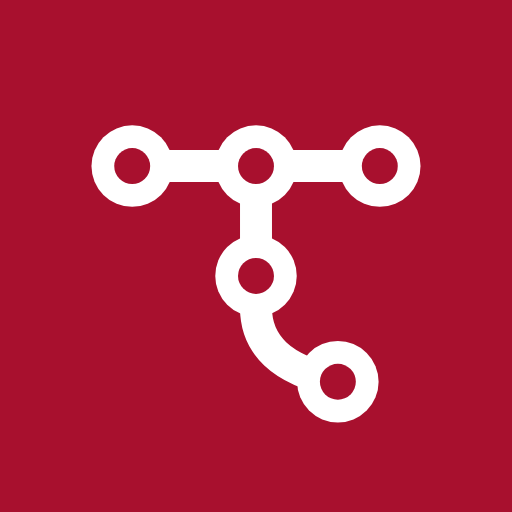
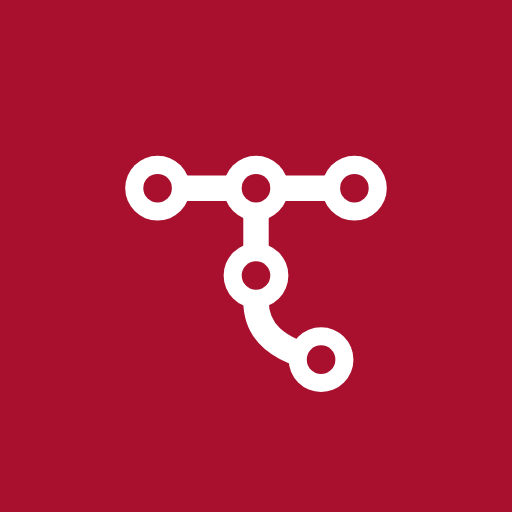
App-Symbol: das T kleiner; von taktland.ch installiert heisst die App «Taktland»
Android-Symbol (maskable) auf 62 statt 78 %, iPhone-Symbol auf 80 %.
taktland.ch hatte kein Manifest, Chrome nahm den Seitentitel als Namen;
jetzt ein eigenes mit Namen Taktland, Start in /app/.

Claude-Session: https://claude.ai/code/session_01NmQeKCF7bHq44rvGBQiMKH

Changed region(s): [[0.1562, 0.2188, 0.8438, 0.8438]]

diff --git a/web/index.html b/web/index.html
@@ -8,6 +8,11 @@
   <meta name="theme-color" content="#a8102e" />
   <link rel="icon" type="image/svg+xml" href="./logo.svg" />
   <link rel="apple-touch-icon" href="./apple-touch-icon.png" />
+  <!-- Installiert man von hier aus, heisst die App nur «Taktland» und startet unter /app/
+       (Michael, 2026-10-01); sonst nahm Chrome den Titel der Seite als Namen -->
+  <link rel="manifest" href="./manifest.webmanifest" />
+  <meta name="apple-mobile-web-app-title" content="Taktland" />
+  <meta name="application-name" content="Taktland" />
   <meta property="og:title" content="Taktland – die Schweizer Bahn kennenlernen" />
   <meta property="og:description" content="Bahnhöfe, Tunnel und Brücken kennenlernen, im Zug mitfahren und alles festhalten. Kostenlos, ohne Konto." />
   <meta property="og:image" content="./bilder/auftakt-start-hell.webp" />
